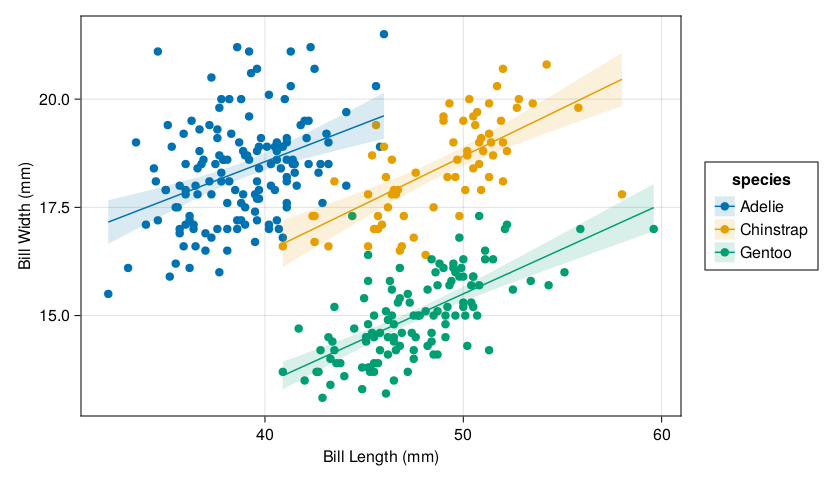
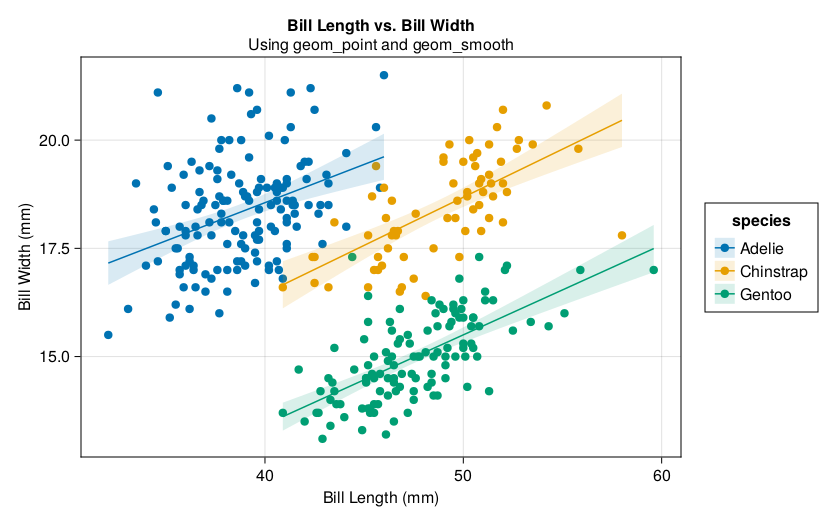
extends labs to support title and subtitle
better labs implementation

diff --git a/README.md b/README.md
@@ -79,7 +79,9 @@ penguins = dropmissing(DataFrame(PalmerPenguins.load()))
 @ggplot(penguins, aes(x = bill_length_mm, y = bill_depth_mm, color = species)) + 
     @geom_point() + 
     @geom_smooth(method = "lm") +
-    @labs(x = "Bill Length (mm)", y = "Bill Width (mm)")
+    @labs(x = "Bill Length (mm)", y = "Bill Width (mm)", 
+        title = "Bill Length vs. Bill Width", 
+        subtitle = "Using geom_point and geom_smooth")
 ```
 
 ![](assets/example_point_smooth.png)
